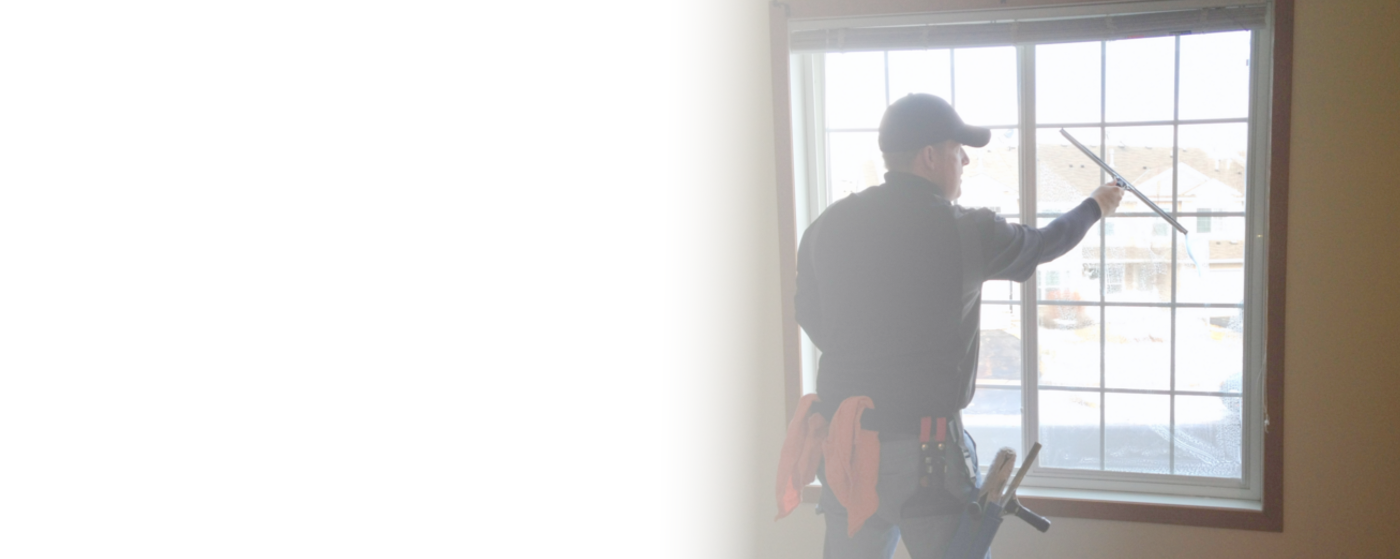
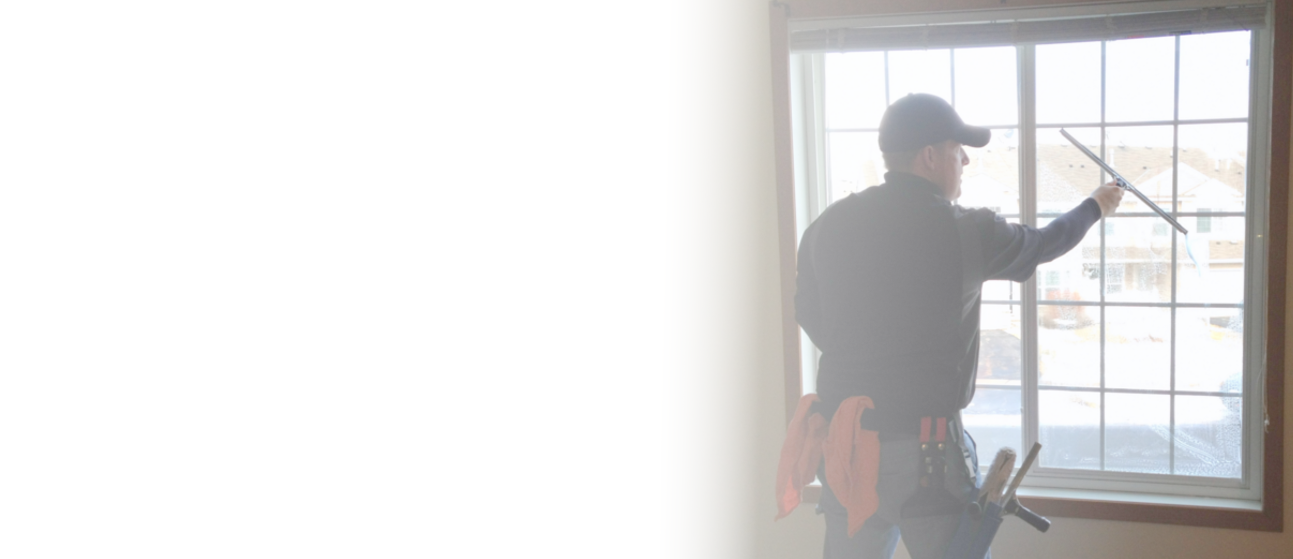
add squeegee animation and change homebg to clouds

Changed region(s): [[0.495, 0.0, 1.0, 1.0]]

diff --git a/index.html b/index.html
@@ -54,14 +54,15 @@
                         <span class="icon-bar"></span>
                         <span class="icon-bar"></span>
                       </button>
-                      <a class="navbar-brand logo" href="index.html" id="logo"><img src="img/logo1 - small.png" id="logoPicSmall"></a>
+                      <a class="navbar-brand logo" href="index.html" id="logo"><img src="img/logo1 - small.png" class="logoPicSmall" id="logo1White"></a>
+                      <!-- <a class="navbar-brand logo" href="index.html" id="logo"><img src="img/logo1trans.png" class="logoPicSmall"></a> -->
                     </div>
 
                     <!-- Collect the nav links, forms, and other content for toggling -->
                     <div class="collapse navbar-collapse" id="bs-example-navbar-collapse-1">
                       <ul class="nav navbar-nav navbar-right">
                         <li><a href="#tf-home" class="navLink">Home</a></li>
-                        <li><a href="#tf-service" class="navLink">Why Hire Us</a></li>
+                        <li><a href="#tf-service" class="navLink">Why Hire Us?</a></li>
                         <li><a href="#tf-about" class="navLink">About Our Company</a></li>
                         <li><a href="#tf-why-me" class="navLink">Services</a></li>
                         <li><a href="#tf-contact" class="navLink">Contact</a></li>
@@ -72,12 +73,10 @@
 
             <div class="container">
                 <div class="content" id="homeContentDiv">
+                    <img src="img/squeegee.png" id="squeegee">
                     <img src="img/logo2.png" id="logo2">
-                    <!-- <h1>Mercury Maintenance, Inc.</h1>
-                    <h3>We rule when it comes to window cleaning. And slogans.</h3>
-                    <br> -->
-                    <a href="#tf-about" class="btn btn-primary my-btn">About Us</a>
-                    <a href="#tf-contact" class="btn btn-primary my-btn2">Request a Quote</a>
+                    <a href="#tf-about" class="btn btn-primary my-btn" id="aboutUsBtn">About Us</a>
+                    <a href="#tf-contact" class="btn btn-primary my-btn2" id="requestQuoteBtn">Request a Quote</a>
                 </div>
             </div>
         </div>
@@ -85,7 +84,7 @@
 
     <div id="tf-service">
         <div class="container">
-        <h3>Why Hire Us</h3>
+        <h3>Why Hire Us?</h3>
             <div class="col-md-4">
 
                 <div class="media">
@@ -121,7 +120,7 @@
                     <i class="fa fa-phone"></i>
                   </div>
                   <div class="media-body">
-                    <h4 class="media-heading">Available 24 Hours a Day for your Window-Cleaning Emegencies</h4>
+                    <h4 class="media-heading">NOT Available 24 Hours a Day for your Window-Cleaning Emegencies</h4>
                     <p>Metus scelerisque ante sollicitudin commodo. Cras purus odio, vestibulum in vulputate at, tempus viverra turpis. Fusce condimentum nunc ac nisi vulputate fringilla.</p>
                   </div>
                 </div>
@@ -131,16 +130,16 @@
         </div>
     </div>
     <div id="tf-about">
-        <div class="overlay">
-            <div class="container">
+        <div>
+            <div class="container" id="aboutContainer">
                 <div class="row">
                     <div class="col-md-6 col-md-offset-6">
-                        <h3>About Our Company</h3>
+                        <h3 id="aboutHeading">About Our Company</h3>
                         <br>
                         <p>Cras sit amet nibh libero, in gravida nulla. Cras purus odio, vestibulum in vulputate at, tempus viverra turpis. Fusce condimentum nunc ac nisi vulputate fringilla. Donec lacinia congue felis in faucibus. Nulla vel metus scelerisque ante sollicitudin commodo. Cras purus odio, vestibulum in vulputate at, tempus viverra turpis. Fusce condimentum nunc ac nisi vulputate fringilla. Donec lacinia congue felis in faucibus.</p>
                         <p>Metus scelerisque ante sollicitudin commodo. Cras purus odio, vestibulum in vulputate at, tempus viverra turpis. Fusce condimentum nunc ac nisi vulputate fringilla. Donec lacinia congue felis in faucibus.</p>
                         <br>
-                        <a href="#tf-contact" class="btn btn-primary my-btn dark">Contact</a>
+                        <a href="#tf-contact" class="btn btn-primary my-btn dark contactBtn">Contact Us</a>
                     </div>
                 </div>
             </div>
@@ -148,7 +147,7 @@
     </div>
 
     <div id="tf-why-me">
-        <div class="overlay">
+        <div>
             <div class="container">
                 <div class="row">
                     <div class="col-md-6">
@@ -168,7 +167,7 @@
                                 <p>Nulla vel metus scelerisque ante sollicitudin commodo. Cras purus odio, vestibulum in vulputate at, tempus viverra turpis.</p>
                             </li>
                         </ul>
-                        <a href="#tf-contact" class="btn btn-primary my-btn dark">Contact</a>
+                        <a href="#tf-contact" class="btn btn-primary my-btn dark contactBtn">Contact Us</a>
                     </div>
                 </div>
             </div>
@@ -179,18 +178,12 @@
         <div class="container">
             <div class="section-title">
                 <h3>Contact us to request a quote (or just to say hi).</h3>
-                <!-- <p>Cras sit amet nibh libero, in gravida nulla. Cras purus odio, vestibulum in vulputate at, tempus viverra turpis.</p> -->
                 <hr>
             </div>
 
             <div class="space"></div>
             <div class="row">
                 <div class="col-md-6" id="contactInfo">
-                   <!--  <h2>Mercury Maintenance, Inc.</h2>
-                    <p>P.O. Box 640274</p>
-                    <p>Miami fl 33164-0274</p>
-                    <br>
-                    <br> -->
                     <h2>Give Us a Call!</h2>
                     <p>We'd love to hear from you.</p>
                     <br>

diff --git a/css/style.css b/css/style.css
@@ -74,16 +74,17 @@ a:focus{
 
 /* Home Style */
 #tf-home{
-	background: url(../img/windowbg.jpg);
+	background: url(../img/clouds.jpg);
+	/*background: skyblue;*/
 	background-size: cover;
-	background-position: center;
-	background-attachment: fixed;
+	background-position: bottom;
+/*	background-attachment: fixed;*/
 	background-repeat: no-repeat;
 	color: #eee;
 }
 
 #tf-home .overlay {
-	background: rgba(255,255,255,0.40);
+	background: rgba(255,255,255,0.1);
 	height: auto;
 	background-attachment: fixed;
 }
@@ -92,6 +93,7 @@ a:focus{
 	padding: 20% 0 25% 0;
 	text-align: center;
 }
+
 /* Navigation */
 #tf-menu {
 	margin-bottom: 0;
@@ -166,7 +168,7 @@ a:focus{
 
 @media(min-width: 768px) {
 	#logo {
-		display: none;	
+		/*display: none;*/	
 	}
 }
 
@@ -174,25 +176,61 @@ a:focus{
 	display: initial;
 }
 
-#logoPicSmall {
+.logoPicSmall {
 	width: 40%;
 }
 
+.invisible {
+	display: initial;
+}
+
+
 @media (min-width: 768px) {
-	#logoPicSmall {
+	.logoPicSmall {
 		width: 55%;
+	}
+
+	.invisible {
+		display: none;
 	}
 }
 
 #logo2 {
-	width: 90%;
+	width: 80%;
+	margin: 5% 10%;
+}
+
+@media(min-width: 480px) {
+	#logo2 {
+		width: 70%;
+		margin: 5% 15%;
+	}
+}
+
+
+#squeegee {
+	position: absolute;
+	filter: opacity(.7);
+	left: 95vw;
+	height: 70%;
+	width: 150vw;
+  animation-name: enterLeft;
+  animation-duration: 1.5s;
+  animation-fill-mode: backwards;
+  animation-delay: .75s;
+  animation-timing-function: linear;
+}
+
+@keyframes enterLeft {
+    from {left: -35vw;}
+    to {left: 95vw;}
 }
 
 #tf-service{
-	padding: 5% 0 7% 0; 
+	padding: 1% 0; 
 }
 
-/*#tf-service*/ h3 {
+ h3 {
 	font-size: 42px;
 	text-align: center;
 	margin: 4% auto;
@@ -212,20 +250,16 @@ a:focus{
 	color: rgb(47, 147, 123);
 }
 
-#tf-portfolio{
-	background: #f1f1f1;
-	padding: 5%  0 8% 0;
-	text-align: center;
+.section-title hr {
+	border-color: rgb(47, 147, 223);
+	width: 160px;
 }
 
-.section-title hr{
-	border-color: rgb(47, 147, 123);
-	width: 60px;
+.section-title h2 { 
+	font-weight: 700;
 }
 
-.section-title h2{ font-weight: 700;}
-button.btn,
-a.btn {
+button.btn, a.btn {
 	margin: 15px 5px;
 	transition: all 0.5s;
 }
@@ -254,6 +288,7 @@ a.btn.btn-primary.my-btn.dark:hover{
 	color: #ffffff;
 	border-color: transparent;
 }
+
 a.btn.btn-primary.my-btn2 {
 	background: white;
 	border-color: #FFFFFF;
@@ -265,10 +300,22 @@ a.btn.btn-primary.my-btn2 {
 	letter-spacing: 1px;
 	font-weight: 600;
 	color:steelblue;
-	margin-top: 55px;
+	/*margin: 55px;*/
 }
 
-a.btn.btn-primary.my-btn2:hover{
+#requestQuoteBtn, #aboutUsBtn {
+	margin: 50px 10px 50px 10px;
+}
+
+@media(max-width: 479px) {
+	#requestQuoteBtn {
+		display: block;
+		margin: 0 22% 50px 22%;
+		width: 56%;
+	}
+}
+
+a.btn.btn-primary.my-btn2:hover {
 	background: darkblue;
 	color: white;
 }
@@ -307,26 +354,24 @@ ul.cat.list-inline li a:hover{
 .nopadding{ padding:  0;}
 
 #tf-about{
-		background-color: #EEE;
-	}
-
-@media(min-width: 992px) {
-	#tf-about{
-		background: url(../img/windowbg2.png);
-		background-size: cover;
-		background-position: center;
-		background-attachment: scroll;
-		background-repeat: no-repeat;
-		color: #222222;
-	}
-
+	background: url(../img/windowbg2.png);
+	background-size: cover;
+	background-position: center;
+	background-attachment: scroll;
+	background-repeat: no-repeat;
+	padding: 50px 0;
+}	
 	.space{ padding: 20px}
-}
+
 
 #tf-about .overlay{
 	height: auto;
-	background-attachment: fixed;
+	/*background-attachment: fixed;*/
 	padding: 5% 0;
+}
+
+#aboutHeading {
+	padding-top: 50px;
 }
 
 #tf-why-me{
@@ -335,7 +380,8 @@ ul.cat.list-inline li a:hover{
 	background-position: center;
 	background-attachment: scroll;
 	background-repeat: no-repeat;
-	color: #222222;
+	color: #222;
+	padding: 4% 0;
 }
 
 #tf-why-me .overlay{
@@ -347,18 +393,20 @@ ul.why-me li{
 	margin: 10px 0;
 }
 #tf-contact{
-	background: url(../img/08.jpg);
-	background-size: cover;
-	background-position: center;
-	background-attachment: scroll;
-	background-repeat: no-repeat;
 	padding: 5% 0;
 	text-align: center;
 }
 
+@media(min-width: 480px) {
+	#tf-contact {
+		background: url(../img/phonebg.jpg);
+		background-size: cover;
+		background-position: center;
+	}
+}
+
 #contactInfo h2 {
 	font-size: 40px;
-	color: rgb(0,200,200);
 	font-style: italic;
 }
 #contactInfo p {
@@ -464,6 +512,5 @@ nav#tf-footer {
 		float: left;
 		margin-top: 0;
 	}
+
 }
-
-

diff --git a/js/main.js b/js/main.js
@@ -18,10 +18,12 @@ function main() {
       if (window_top > div_top) {
           $('#tf-menu').addClass('stick');
           $('#logo').addClass('stick');
+          // $('#logo1White').removeClass('invisible');
           $('.navLink').addClass('whiteFont');
       } else {
           $('#tf-menu').removeClass('stick');
           $('#logo').removeClass('stick');
+          // $('#logo1White').addClass('invisible');
           $('.navLink').removeClass('whiteFont');
       }
   }
